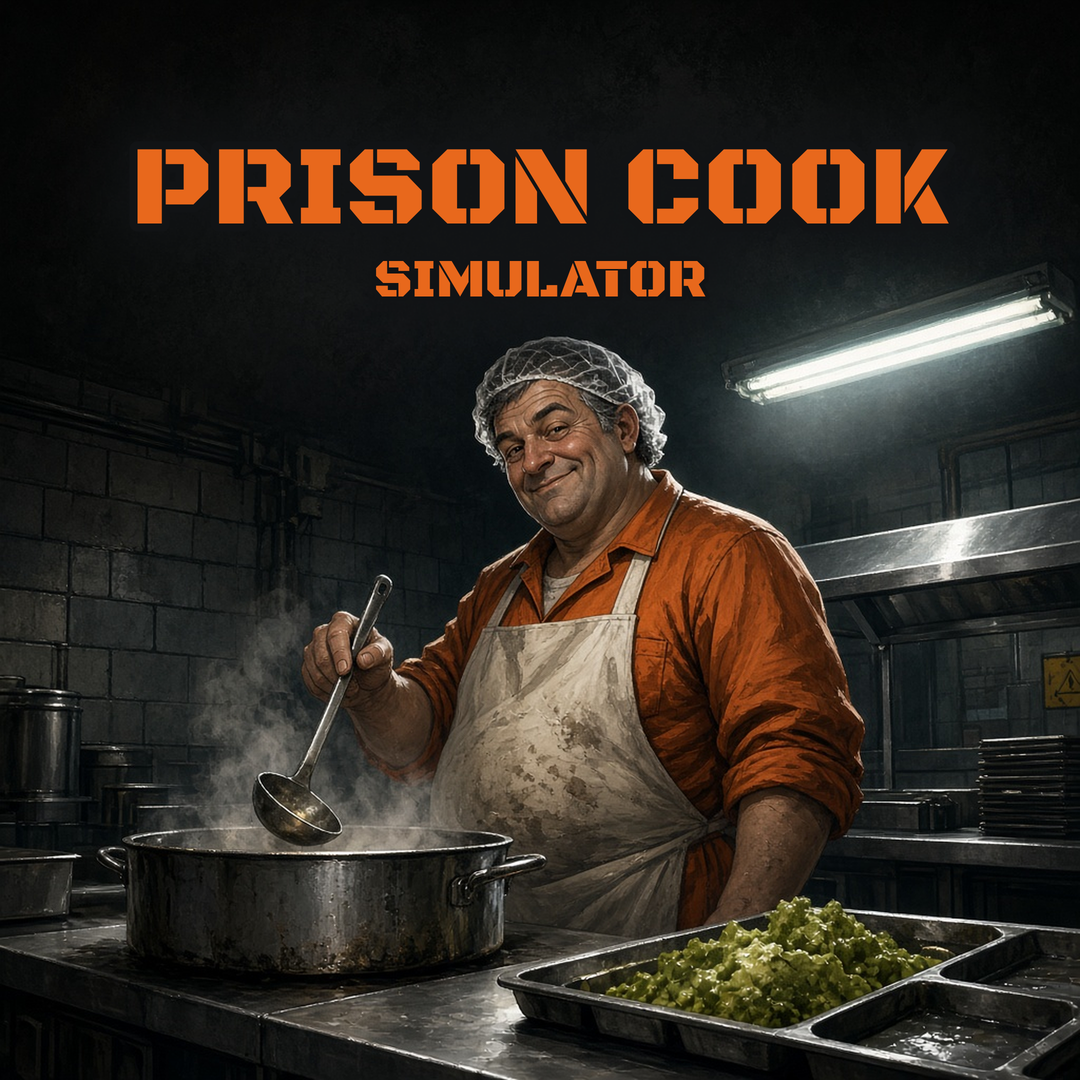
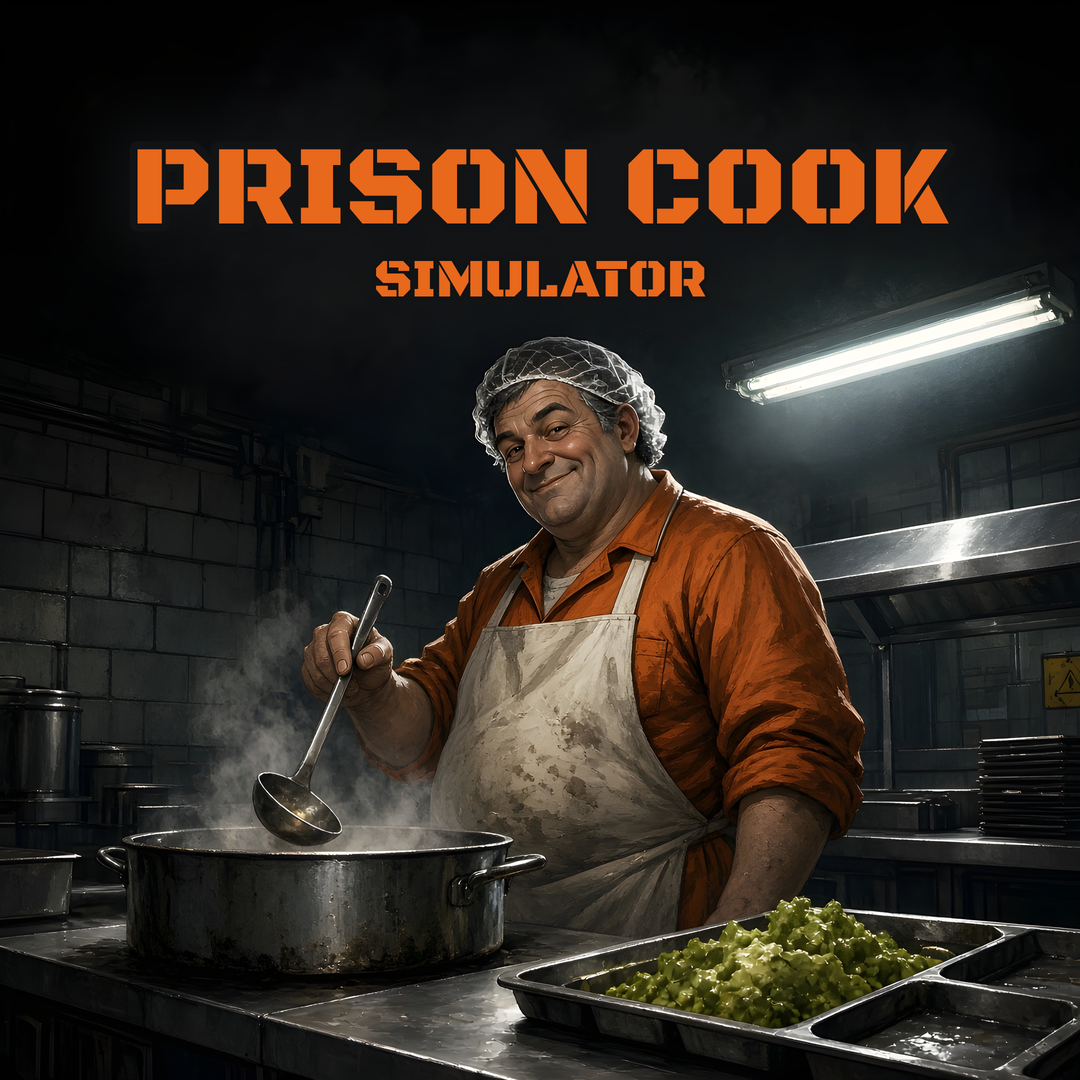
Store art v2: Real-ESRGAN x4 masters, consistent cook in hero, grey inmates on poster, cover safe area

Changed region(s): [[0.9167, 0.8556, 0.9472, 0.8861], [0.7333, 0.825, 0.7639, 0.8556], [0.7028, 0.4889, 0.7333, 0.5194]]

diff --git a/tools/gen_store_art.py b/tools/gen_store_art.py
@@ -27,14 +27,16 @@ def title(im,box):
     d.text((x0+(bw-w2)//2,top+s+int(s*0.12)),'SIMULATOR',font=f2,fill=ORANGE,stroke_width=max(2,sw//2+1),stroke_fill=SHADOW)
     return im
 def save(im,name): im.convert('RGB').save(f'{D}/{name}',optimize=True); print(name,im.size)
-key,poster,hero=src('key_art.jpg'),src('poster_art.jpg'),src('hero_art.jpg')
+# v2: 4x Real-ESRGAN masters (tools/upscale_esrgan.py) -> every output is a DOWNscale of a >=2160 master.
+key,poster,hero=src('x4/key_art_x4.jpg'),src('x4/poster_v2_x4.jpg'),src('x4/hero_v2_x4.jpg')
 # itch cover 630x500, title inside central 560x440 safe area (top band)
-im=fit(key,630,500,0.35); save(title(im,(55,40,575,190)),'itch_cover_630x500.png')
+# title + cook head both inside central 560x440 (x 35-595, y 30-470)
+im=fit(key,630,500,0.35); save(title(im,(60,40,570,175)),'itch_cover_630x500.png')
 # Store box 1:1
 im=fit(key,2160,2160); save(title(im,(260,140,1900,700)),'store_box_2160x2160.png')
 save(Image.open(f'{D}/store_box_2160x2160.png').resize((1080,1080),Image.LANCZOS),'store_box_1080x1080.png')
 # poster 2:3, title in top
-im=fit(poster,1440,2160,0.0); save(title(im,(120,90,1320,560)),'store_poster_1440x2160.png')
+im=fit(poster,1440,2160,1.0); save(title(im,(120,60,1320,420)),'store_poster_1440x2160.png')
 save(Image.open(f'{D}/store_poster_1440x2160.png').resize((720,1080),Image.LANCZOS),'store_poster_720x1080.png')
 # hero 1920x1080 no title
 save(fit(hero,1920,1080),'store_hero_1920x1080.png')

diff --git a/tools/upscale_esrgan.py b/tools/upscale_esrgan.py
@@ -1,0 +1,19 @@
+# Real-ESRGAN x4plus on CPU via spandrel, tiled. usage: upscale_esrgan.py model.pth in out
+import sys, torch, numpy as np
+from PIL import Image
+from spandrel import ModelLoader
+m=ModelLoader().load_from_file(sys.argv[1]).model.eval()
+torch.set_num_threads(8)
+img=np.asarray(Image.open(sys.argv[2]).convert('RGB')).astype(np.float32)/255
+H,W,_=img.shape; T,P,S=256,16,4
+out=np.zeros((H*S,W*S,3),np.float32)
+with torch.no_grad():
+    for y in range(0,H,T):
+        for x in range(0,W,T):
+            y0,x0=max(0,y-P),max(0,x-P); y1,x1=min(H,y+T+P),min(W,x+T+P)
+            t=torch.from_numpy(img[y0:y1,x0:x1].transpose(2,0,1))[None]
+            r=m(t)[0].clamp(0,1).numpy().transpose(1,2,0)
+            ty,tx=(y-y0)*S,(x-x0)*S; h,w=min(T,H-y)*S,min(T,W-x)*S
+            out[y*S:y*S+h,x*S:x*S+w]=r[ty:ty+h,tx:tx+w]
+Image.fromarray((out*255+.5).astype(np.uint8)).save(sys.argv[3])
+print('done',sys.argv[3],out.shape)

diff --git a/store-art/README.md b/store-art/README.md
@@ -1,3 +1,9 @@
 # Store art (spec: docs/store-art-spec.md, Game Art Director v1)
 Base illustrations in `source/` were generated by AI image generation, with no text in the images. The title was added afterward with `tools/gen_store_art.py`, set in Black Ops One (SIL OFL 1.1, license in `fonts/OFL.txt`).
 Sources are about 1024 px, so the 2160 px masters are upscaled. Replace them with higher-res paintovers before final submission if possible.
+
+## v2 (after Game Art Director audit)
+- Masters now come from 4× Real-ESRGAN x4plus upscales (`source/x4/`, made with `tools/upscale_esrgan.py` on CPU). Every delivered size is a downscale of those masters, and the title is set at full resolution.
+- The hero was regenerated using the key-art cook as a reference image, so it's the same character: clean-shaven, hairnet, apron, orange jumpsuit.
+- The poster was regenerated with grey and charcoal inmates, so the cook is the only orange element. It's a fuller-body pose, though the counter covers his legs.
+- The cover's title and the cook's head both sit inside the central 560×440 safe area.
